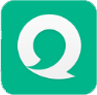
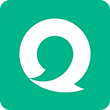
修复bug
1 分享图片替换
2  微信分享模糊
3  正文图片小图片不放大

diff --git a/Classes/View/People/FSNewsContainerWebView.m b/Classes/View/People/FSNewsContainerWebView.m
@@ -461,15 +461,17 @@
 }
 
 -(NSString *) generateImageHTML:(UIImage *)image url:(NSString *)url{
-    
+    NSLog(@"%f %f",image.size.width,image.size.height);
     float rule = 90;
 	float height = image.size.height;
 	float width = image.size.width;
     
-    if ([_imageList count]>1) {
+
+    if (1) {
         if (width>height) {
-            width = width/height*rule;
-            height = rule;
+            float tempWidth = 300<(width/2)?300:(width/2);
+            height /= (width/tempWidth);
+            width  = tempWidth;
         }else {
             height = height/width*rule;
             width = rule;
@@ -487,7 +489,7 @@
 	
 	NSString *realPath = getFileNameWithURLString(url, getCachesPath());//图片存放位置
 	
-	
+	NSString * xxx = [NSString stringWithFormat:@"<div class='plus'></div><a class='photo_box' href='javascript:void(0)' onclick=extend_image('%@')><img src='%@' width='%.0f' height='%.0f' /></a>",url,realPath,width,height];
     return [NSString stringWithFormat:@"<div class='plus'></div><a class='photo_box' href='javascript:void(0)' onclick=extend_image('%@')><img src='%@' width='%.0f' height='%.0f' /></a>",url,realPath,width,height];
 	
 }

diff --git a/Classes/Controller/People/FSDeepPageContainerController.m b/Classes/Controller/People/FSDeepPageContainerController.m
@@ -351,7 +351,7 @@
         }
         FSDeepPageObject *pageObj = [_fs_GZF_DeepPageListDAO.objectList objectAtIndex:0];
         if (pageObj.share_img == nil || pageObj.share_img.length == 0) {
-            NSString * string = [[NSBundle mainBundle]pathForResource:@"icon" ofType:@"png"];
+            NSString * string = [[NSBundle mainBundle]pathForResource:@"icon@2x" ofType:@"png"];
             self.shareData = [NSData dataWithContentsOfFile:string];
         }else
         {
